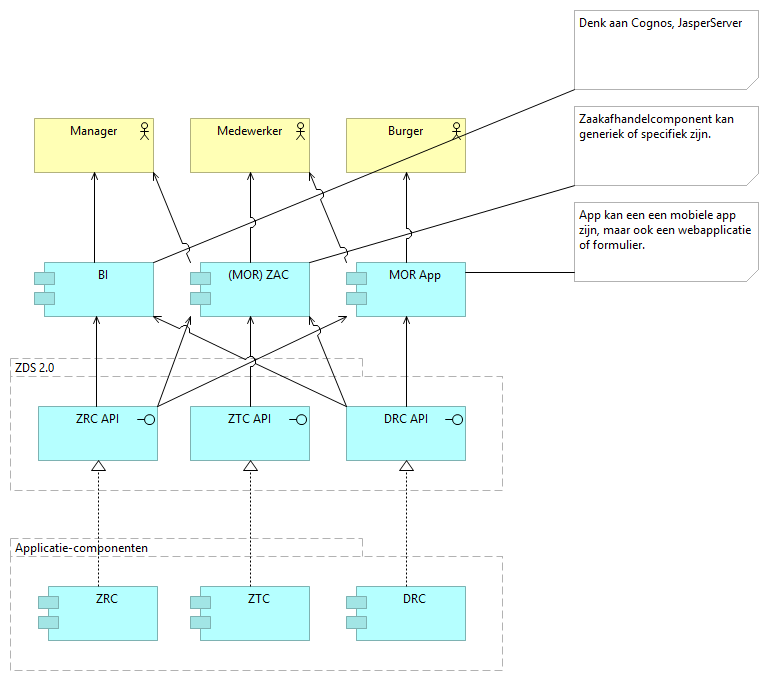
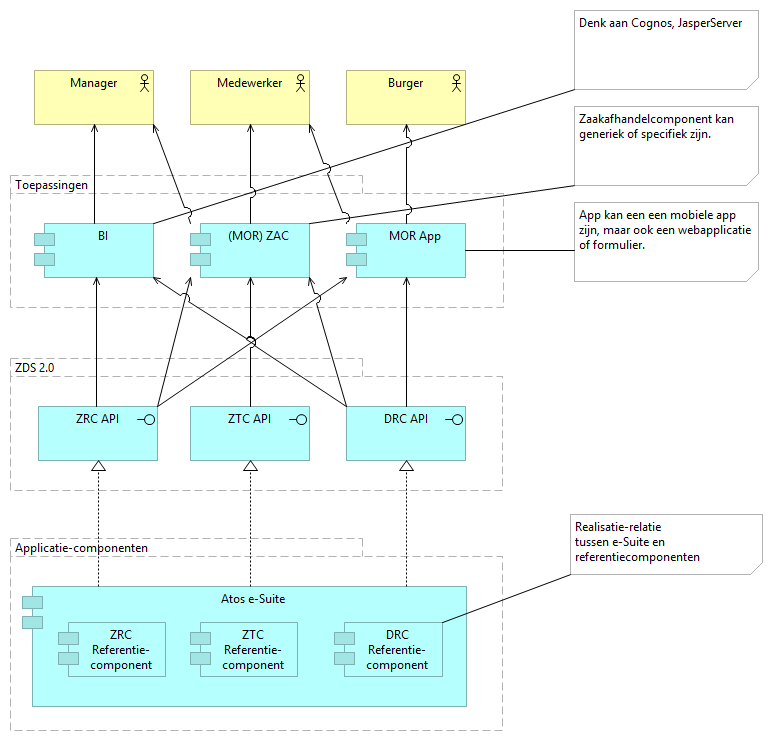
Update van de architectuurschets

diff --git a/docs/processen/Dimpact-MOR.md b/docs/processen/Dimpact-MOR.md
@@ -1,6 +1,6 @@
 # Dimpact - Melding Openbare Ruimte
 
-Work in progress.
+In dit hoofdstuk wordt een architectuurschets gegeven voor de user stories voor de Melding Openbare Ruimte (MOR). Het gaat om de volgende user stories.
 
 ## User stories
 
@@ -20,7 +20,7 @@ Samenvallend met meldingen overlast op het water de volgende user stories:
 
 
 ## Toelichting user stories
-Het gaat hier om een aantal user stories voor Melding Openbare Ruimte. De meeste Dimpact-gemeenten maken gebruik van de Atos e-Suite voor de intake en behandeling van meldingen over de openbare ruimte. Daartoe hebben zij in de e-Suite een zaaktype ingericht dat bestaat uit een e-formulier met een zaakafhandelproces. De meldingen worden volledig zaakgericht afgehandeld en de burger kan de voortgang volgen via het Mijn Loket gedeelte van de e-Suite en/of hij krijgt e-mail over de voortgang van de melding. Medewerkers beoordelen de melding en zetten deze door naar behandelaars of naar een ketenpartner. Er zijn managementrapportages ingericht met JasperServer die bijv. inzicht geven in het aantal meldingen per categorie, het voldoen aan servicelevels, etc.
+Het gaat hier om een aantal user stories voor Melding Openbare Ruimte. De meeste Dimpact-gemeenten maken gebruik van de Atos e-Suite voor de intake en behandeling van meldingen over de openbare ruimte. Daartoe hebben zij in de e-Suite een e-dienst ingericht die bestaat uit een e-formulier met een zaakafhandelproces. De meldingen worden volledig zaakgericht afgehandeld en de burger kan de voortgang volgen via het Mijn Loket gedeelte van de e-Suite; bovendien kan hij e-mail notificaties over de voortgang van de melding. Medewerkers beoordelen de melding en zetten deze door naar behandelaars of naar een ketenpartner. Er zijn managementrapportages ingericht met JasperServer die bijv. inzicht geven in het aantal meldingen per categorie, het voldoen aan servicelevels, etc.
 
 Daarnaast blijken de user stories van Dimpact voor de MOR samen te vallen met een aantal user stories van Amsterdam voor melding van overlast op water. Deze zijn ook vermeld maar niet verwerkt in de analyse die hierna volgt.
 
@@ -38,15 +38,14 @@ Managers maken ook gebruik van het Medewerkerportaal o.a. om de werkvoorraad te 
 
 
 ## Beknopte Procesbeschrijving
-1. Het MOR-proces is een vrij eenvoudig proces dat start met een melding door de burger. 
-2. De medewerker krijgt de melding in zijn werkvoorraad en beoordeelt deze. Als de melding voldoende gegevens bevat voor behandeling (en valt onder verantwoordelijkheid van de gemeente), dan maakt de medewerker een zaak aan.
-3. De zaak wordt doorgezet naar een medewerker voor behandeling. Dit kan naar een interne afdeling zijn of naar een externe ketenpartner.
+1. Het MOR-proces is een vrij eenvoudig proces dat start met een melding door de burger. Burger vult een formulier in of gebruikt een app om een melding openbare ruimte te doen. Hij kan daarbij zien welke meldingen al gedaan zijn in het gebied waarin hij zich bevindt. Ook kan hij een bestaande melding aanklikken om deze te "liken" (bevestigen).
+2. De medewerker krijgt de melding in zijn werkvoorraad en beoordeelt deze. Ook de medewerker kan de melding op een kaartje zien samen met andere meldingen in hetzelfde gebied. Als de melding voldoende gegevens bevat voor behandeling (en valt onder verantwoordelijkheid van de gemeente), dan maakt de medewerker een zaak aan.
+3. De zaak wordt voor behandeling doorgezet naar een medewerker, afdeling of externe ketenpartner.
 4. Als de melding is afgehandeld krijgt de burger een terugmelding (bijv. via e-mail)
 
 Deze procesbeschrijving overstijgt de user stories; deze kunnen a.h.w. geplaatst worden in het proces.
 
 ![Bedrijfsproces i.r.t. API's](./bestanden/Dimpact/mor-proces.png?raw=true)
-
 
 
 ## Generieke architectuurschets (GEMMA-referentiecomponenten)
@@ -56,12 +55,12 @@ Architectuurschetsen zijn reeds in termen van GEMMA 2 referentiecomponenten.
 ## Benodigde APIs per user story
 
 | User story | API | Functionaliteit |
-|------------|-----|-----------------|
-| [User story #169](https://github.com/VNG-Realisatie/gemma-zaken/issues/169): Als burger wil ik een melding openbare ruimte kunnen doen zodat de gemeente deze kan behandelen. | DRC API | Het registreren van een melding (leidt tot een document/informatieobject) |
-| [User story #139](https://github.com/VNG-Realisatie/gemma-zaken/issues/139): Als medewerker wil ik weten waar welk type melding openbare ruimte (categorie) is gedaan zodat ik de melding kan doorzetten naar de juiste behandelaar of ketenpartner. | DRC API | Behandelaar aanpassen, status bijwerken |
+|:------------|:-----|:-----------------|
+| [User story #169](https://github.com/VNG-Realisatie/gemma-zaken/issues/169): Als burger wil ik een melding openbare ruimte kunnen doen zodat de gemeente deze kan behandelen. | DRC API, ZRC API | Ophalen meldingen in hetzelfde gebied, Het registreren van een melding (leidt tot een document/informatieobject) |
+| [User story #139](https://github.com/VNG-Realisatie/gemma-zaken/issues/139): Als medewerker wil ik weten waar welk type melding openbare ruimte (categorie) is gedaan zodat ik de melding kan doorzetten naar de juiste behandelaar of ketenpartner. | DRC API, ZRC API | Behandelaar aanpassen, status bijwerken, ophalen meldingen in hetzelfde gebied |
 | [User story #138](https://github.com/VNG-Realisatie/gemma-zaken/issues/138): Als gemeente wil ik een melding openbare ruimte over afval in het buitengebied automatisch laten routeren naar een ketenpartner op basis van de locatie en de categorie van de melding zodat ik een efficiëntere bedrijfsvoering verkrijg. | DRC API | Behandelaar aanpassen, status bijwerken | 
 | [User story #137](https://github.com/VNG-Realisatie/gemma-zaken/issues/137): Als manager wil ik een rapportage kunnen maken van meldingen in de openbare ruimte zodat ik kan achterhalen hoe vaak welke categorie meldingen in welke straat, buurt of wijk voorkomen. | ZRC API, DRC API | Selecties ophalen van zaken en/of documenten op basis van criteria als zaaktype, categorie, locatie, trefwoorden |
-| [User story #111](https://github.com/VNG-Realisatie/gemma-zaken/issues/111): Als behandelaar van een melding openbare ruimte wil ik kunnen zoeken naar zaken en contacten die betrekking hebben op meldingen in hetzelfde gebied van dezelfde categorie of over hetzelfde probleem gaan zodat ik dubbele meldingen kan samenvoegen en meldingen kan plannen en routeren voor onze medewerkers in het veld (of voor een ketenpartner). | DRC API | Zoeken naar meldingen op basis van zaaktype, locatie, categorie, etc.  ||
+| [User story #111](https://github.com/VNG-Realisatie/gemma-zaken/issues/111): Als behandelaar van een melding openbare ruimte wil ik kunnen zoeken naar zaken en contacten die betrekking hebben op meldingen in hetzelfde gebied van dezelfde categorie of over hetzelfde probleem gaan zodat ik dubbele meldingen kan samenvoegen en meldingen kan plannen en routeren voor onze medewerkers in het veld (of voor een ketenpartner). | ZRC API, DRC API | Zoeken naar meldingen op basis van zaaktype, locatie, categorie, etc.  ||
 
 
 
